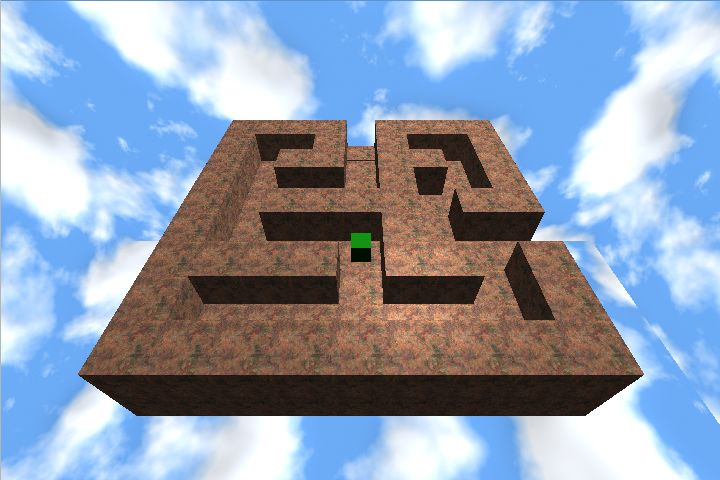
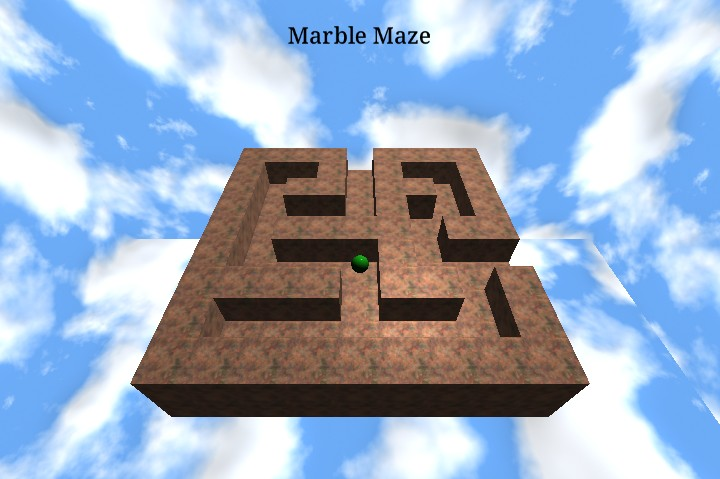
Moved Scene::updateCamera logic fully to scene, updated example screenshot

diff --git a/src/gm/game.cpp b/src/gm/game.cpp
@@ -2,7 +2,6 @@
 #include <geo/geometrytransform.hpp>
 #include <gm/game.hpp>
 #include <ren/renderer.hpp>
-#include <cmath>
 
 using namespace gm;
 
@@ -31,11 +30,11 @@ void Game::onInit(int width, int height, ren::RenderAssetManager& ram) {
 
 	scene.cameraYaw = 0;
 	scene.cameraPitch = lin::Pi / 4;
-	scene.cameraDistance = 10;
+	scene.cameraDistance = scene.maze.getWidth() / 2 + 5;
 
 	lin::Vec3 cameraTarget = {
 		(int)(scene.maze.getWidth() / 2) * 1.0f,
-		0,
+		(int)(scene.maze.getHeight() / 2) * 1.0f,
 		(int)(scene.maze.getDepth() / 2) * 1.0f,
 	};
 	scene.camera.setTarget(cameraTarget);
@@ -48,7 +47,6 @@ void Game::onInit(int width, int height, ren::RenderAssetManager& ram) {
 
 	scene.renderables.push_back(ren::Renderable());
 	scene.renderables[0].create(maze, ram.getMaterial("copperTextured"));
-
 
 	auto& marble = ram.createMesh("marble");
 	marble.create(20 * 16 * 3);
@@ -95,16 +93,11 @@ bool Game::onUpdate(float deltaTime, float currentTime, const in::Input& input) 
 			(pressed[3] - pressed[2]) * deltaTime);
 	}
 
-	if (input.getMouseL() == in::Pressed) {
-		scene.cameraYaw += input.getDeltaMouseX() * deltaTime * 0.2f;
-		float np = scene.cameraPitch + input.getDeltaMouseY() * deltaTime * 0.2f;
-		scene.cameraPitch = std::min(std::max(np, -lin::Pi / 2 + 0.1f), lin::Pi / 2 - 0.1f);
-		scene.updateCamera();
-	}
-
-	if (input.getScrollY() != 0) {
-		scene.cameraDistance -= input.getScrollY() * deltaTime * 10;
-		scene.updateCamera();
+	if (input.getMouseL() == in::Pressed || input.getScrollY() != 0) {
+		scene.updateCamera(
+			input.getDeltaMouseX() * deltaTime * 0.2f,
+			input.getDeltaMouseY() * deltaTime * 0.2f,
+			-input.getScrollY() * deltaTime * 10);
 	}
 
 	scene.updatePhysics(deltaTime);

diff --git a/src/gm/scene.cpp b/src/gm/scene.cpp
@@ -11,6 +11,19 @@ Scene::Scene()
 }
 
 void Scene::updateCamera() {
+	updateCamera(0, 0, 0);
+}
+
+
+void Scene::updateCamera(float deltaYaw, float deltaPitch, float deltaDistance) {
+	cameraYaw += deltaYaw;
+	cameraPitch = std::min(std::max(cameraPitch + deltaPitch, -lin::Pi / 2 + 0.1f), lin::Pi / 2 - 0.1f);
+
+	cameraDistance += deltaDistance;
+	if (cameraDistance <= 0) {
+		cameraDistance = 0.1f;
+	}
+
 	lin::Vec3 offset = camera.getTarget();
 	lin::Vec3 newPosition = {
 		offset.x + std::cos(cameraPitch) * std::cos(cameraYaw) * cameraDistance,

diff --git a/src/gm/scene.hpp b/src/gm/scene.hpp
@@ -14,6 +14,7 @@ namespace gm {
 		Scene();
 
 		void updateCamera();
+		void updateCamera(float deltaYaw, float deltaPitch, float deltaDistance);
 		void updateMazeRotation(float deltaPitch, float deltaRoll);
 		void updatePhysics(float deltaTime);
 
